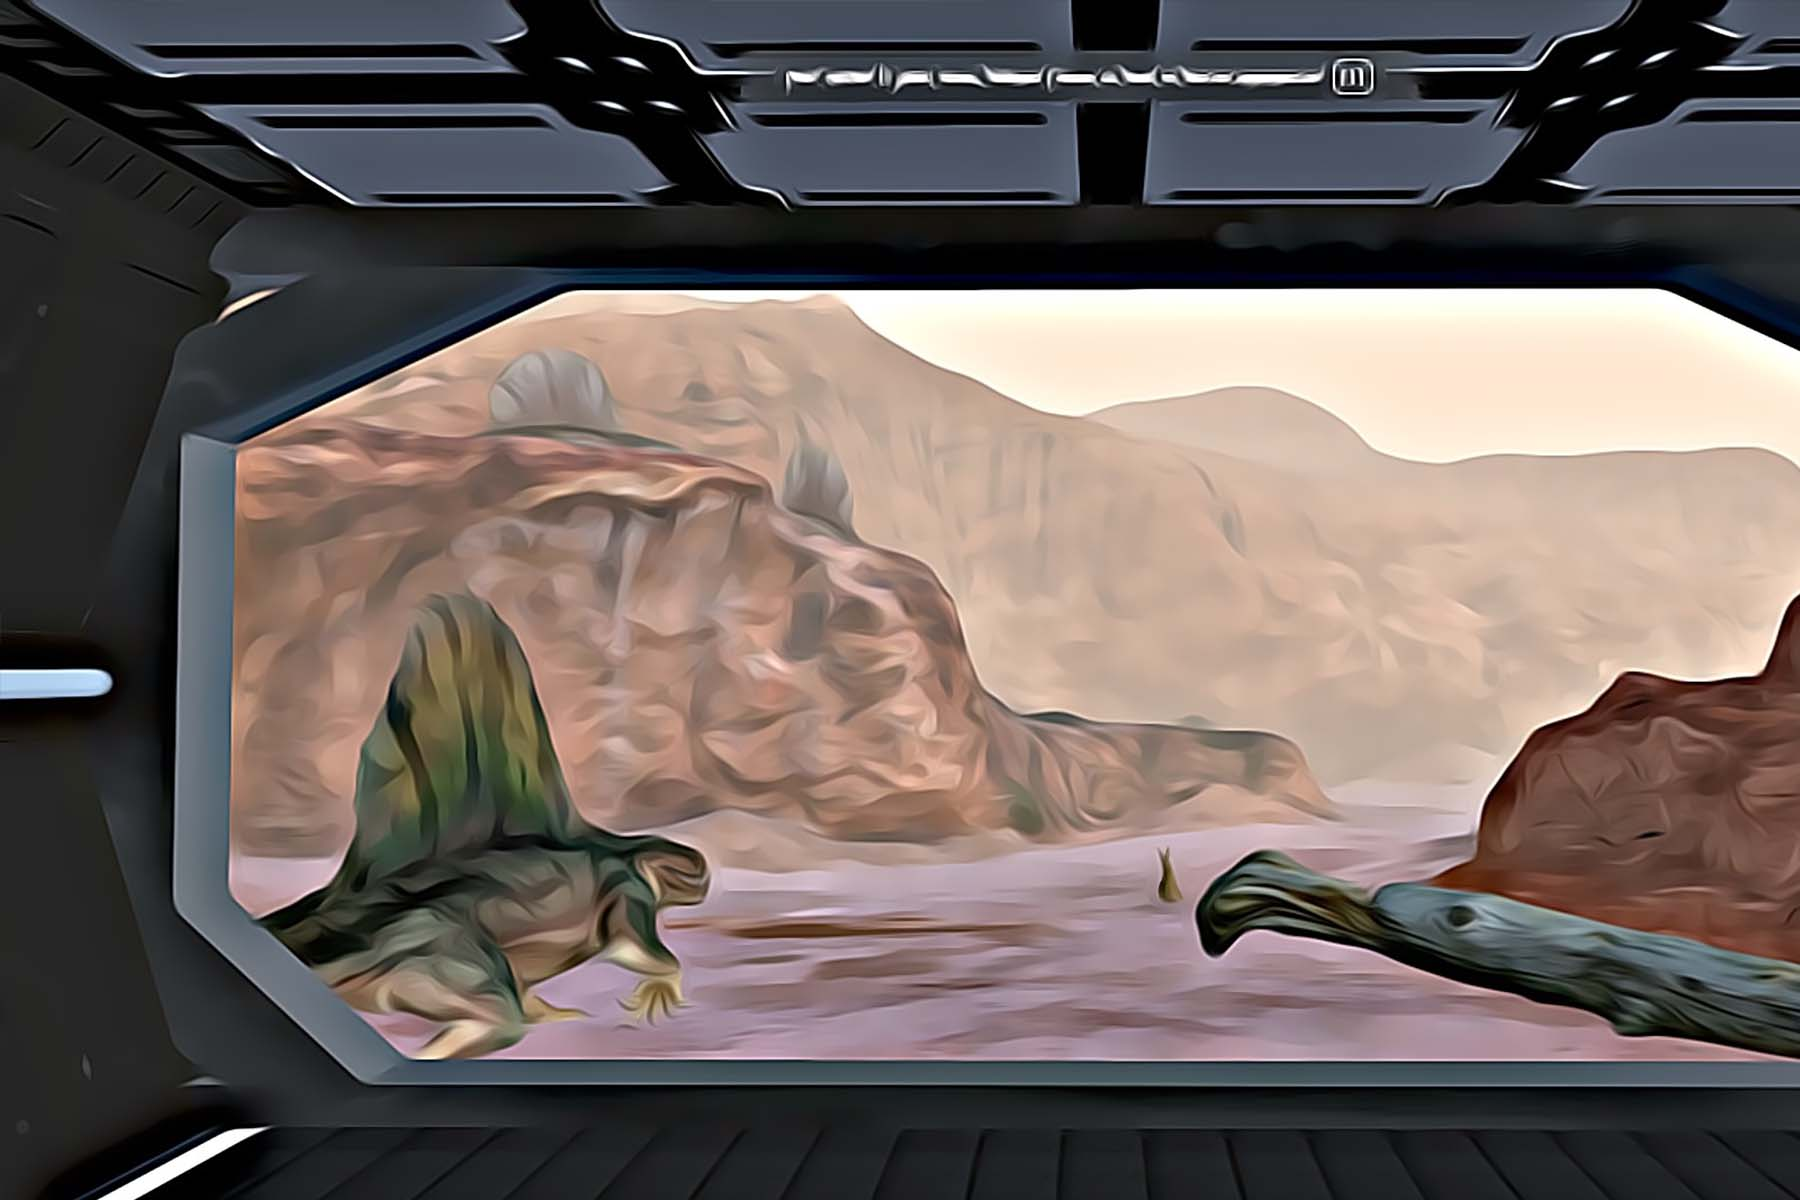
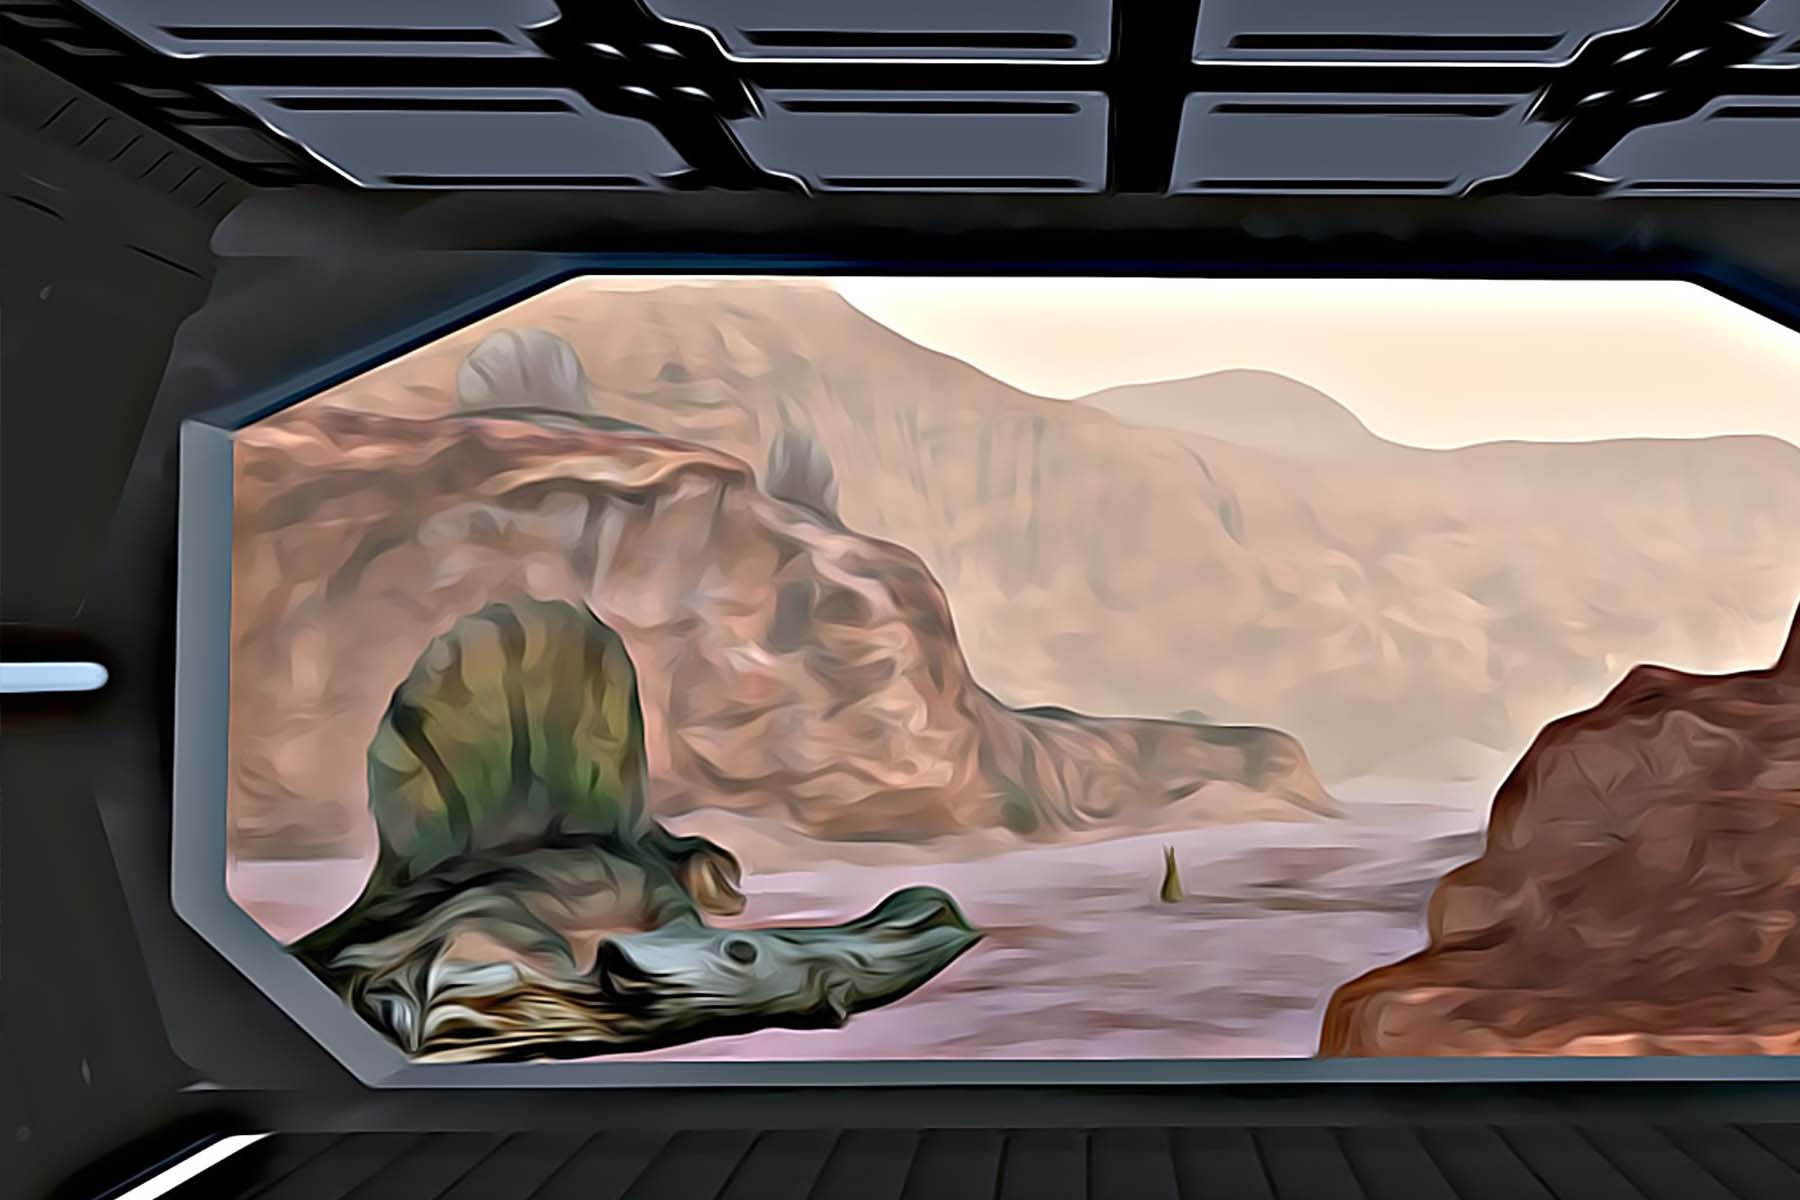
[MOD] Dimetrodon adjustments

diff --git a/src/components/dimetrodon-scene/dimetrodon-environment.html b/src/components/dimetrodon-scene/dimetrodon-environment.html
@@ -4,7 +4,9 @@
   rotation="0 140 0" scale="0.8 0.8 0.8"></a-entity>
 <a-entity id="dimetrodon-desert-plant" gltf-model="#desert-plant-asset" position="-22.71465 3.97282 0.21279"
   rotation="0 50 0" scale="0.1 0.1 0.1"></a-entity>
-<a-entity id="dimetrodon-desert-branch" gltf-model="#desert-branch-asset" position="-18.43157 0.24721 0.68807"
-  rotation="0 -0.44 -2.24" scale="0.4 0.4 0.4"></a-entity>
-<a-entity id="dimetrodon-desert-rock" gltf-model="#desert-rock-asset" position="-18.14123 -2.02647 -8.81063"
+<a-entity id="dimetrodon-desert-branch" gltf-model="#desert-branch-asset" position="-21.43732 0.24721 6.78228"
+  rotation="2.14 127.34000000000002 0.15" scale="0.4 0.4 0.4"></a-entity>
+<a-entity id="dimetrodon-desert-rock" gltf-model="#desert-rock-asset" position="-15.14353 -4.78687 0.58411"
+  rotation="0 -13.33 0" scale="0.008 0.008 0.008"></a-entity>
+<a-entity id="dimetrodon-desert-rock-2" gltf-model="#desert-rock-asset" position="-18.14123 -2.02647 -8.81063"
   rotation="0 59.99999999999999 0" scale="0.01 0.01 0.01"></a-entity>

diff --git a/src/main-scenes/dimetrodon/dimetrodon-assets.html b/src/main-scenes/dimetrodon/dimetrodon-assets.html
@@ -19,6 +19,7 @@
   <img id="loading-asset" src="/assets/images/loader.png" />
   <img id="credits-asset" src="/assets/images/credits.png" />
   <img id="rendering-asset" src="/assets/images/rendering.png" />
+  <img id="dont-touch-asset" src="/assets/images/dont-touch.jpg" />
   <img id="ground-texture-grass-asset" src="/assets/images/floor-grass.jpg" />
 
   <!-- 3D -->

diff --git a/src/main-scenes/sarco/sarco-assets.html b/src/main-scenes/sarco/sarco-assets.html
@@ -19,6 +19,7 @@
   <img id="loading-asset" src="/assets/images/loader.png" />
   <img id="credits-asset" src="/assets/images/credits.png" />
   <img id="rendering-asset" src="/assets/images/rendering.png" />
+  <img id="dont-touch-asset" src="/assets/images/dont-touch.jpg" />
   <img id="ground-texture-grass-asset" src="/assets/images/floor-grass.jpg" />
 
   <!-- 3D -->

diff --git a/src/main-scenes/spino/spino-assets.html b/src/main-scenes/spino/spino-assets.html
@@ -19,6 +19,7 @@
   <img id="loading-asset" src="/assets/images/loader.png" />
   <img id="credits-asset" src="/assets/images/credits.png" />
   <img id="rendering-asset" src="/assets/images/rendering.png" />
+  <img id="dont-touch-asset" src="/assets/images/dont-touch.jpg" />
   <img id="ground-texture-grass-asset" src="/assets/images/floor-grass.jpg" />
 
   <!-- 3D -->
